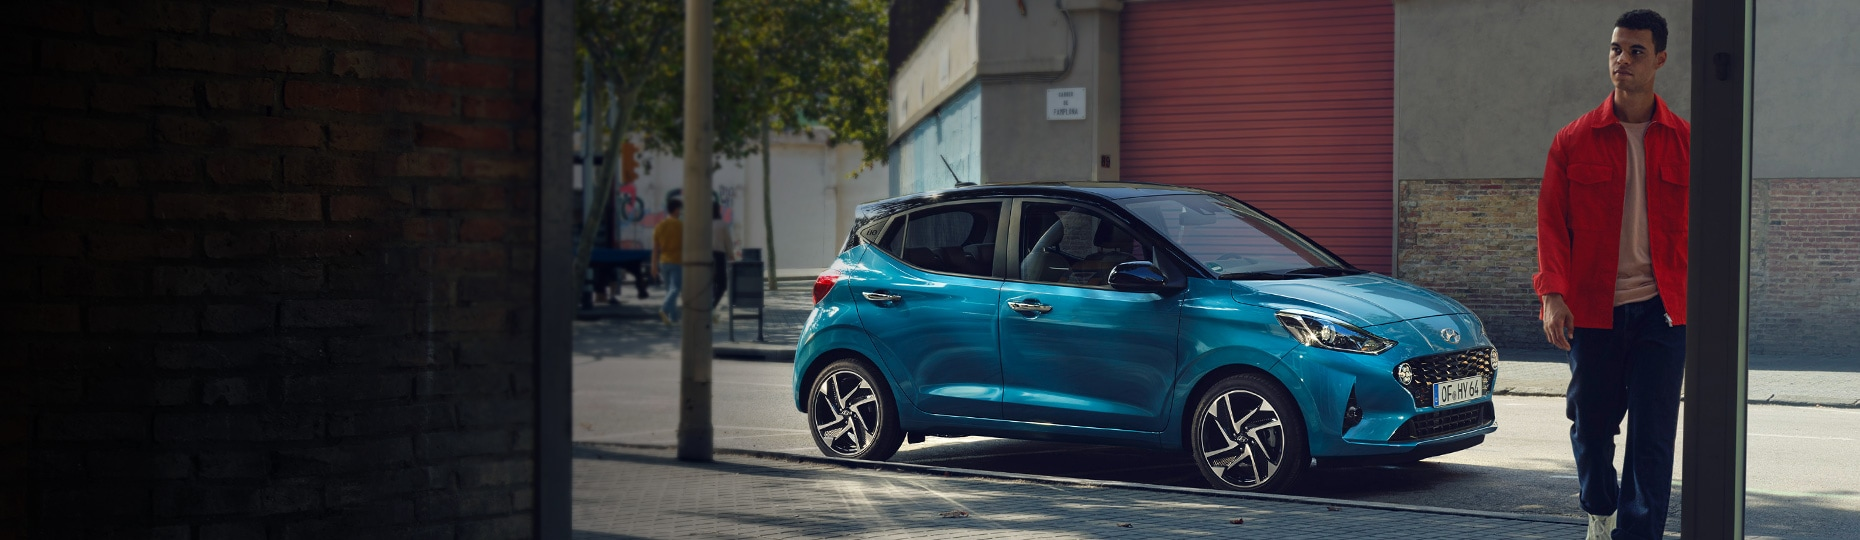
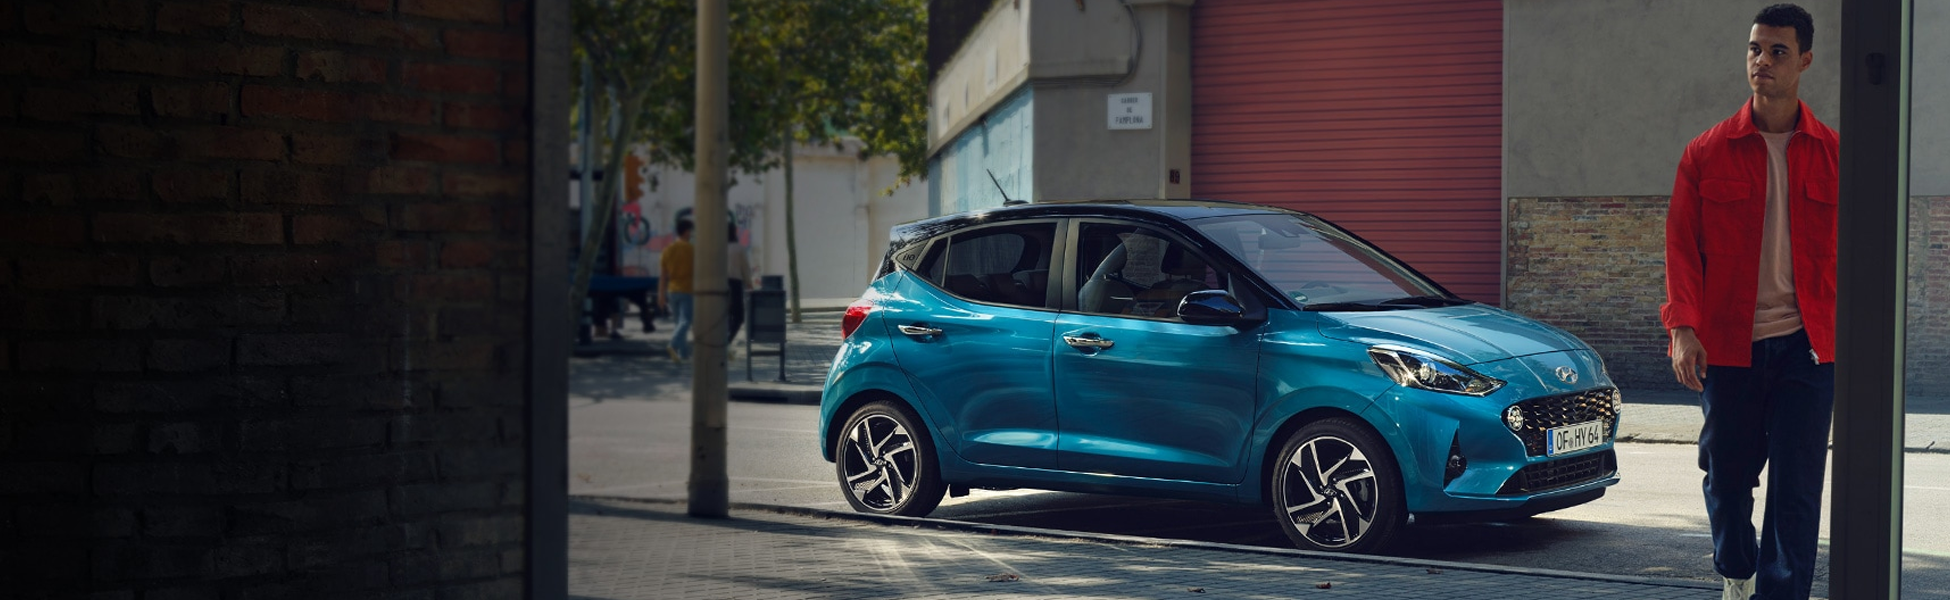
hinh
aaaa

Changed region(s): [[0.2495, 0.0, 1.0, 1.0]]

diff --git a/src/assets/css/styles.css b/src/assets/css/styles.css
@@ -406,7 +406,7 @@ p:last-child {
     background: #11ba39;
     color: #fff
 }
-.img_main img{
-    width: 100%;
+#mainvisual{
+    height:570px;
 }
 
